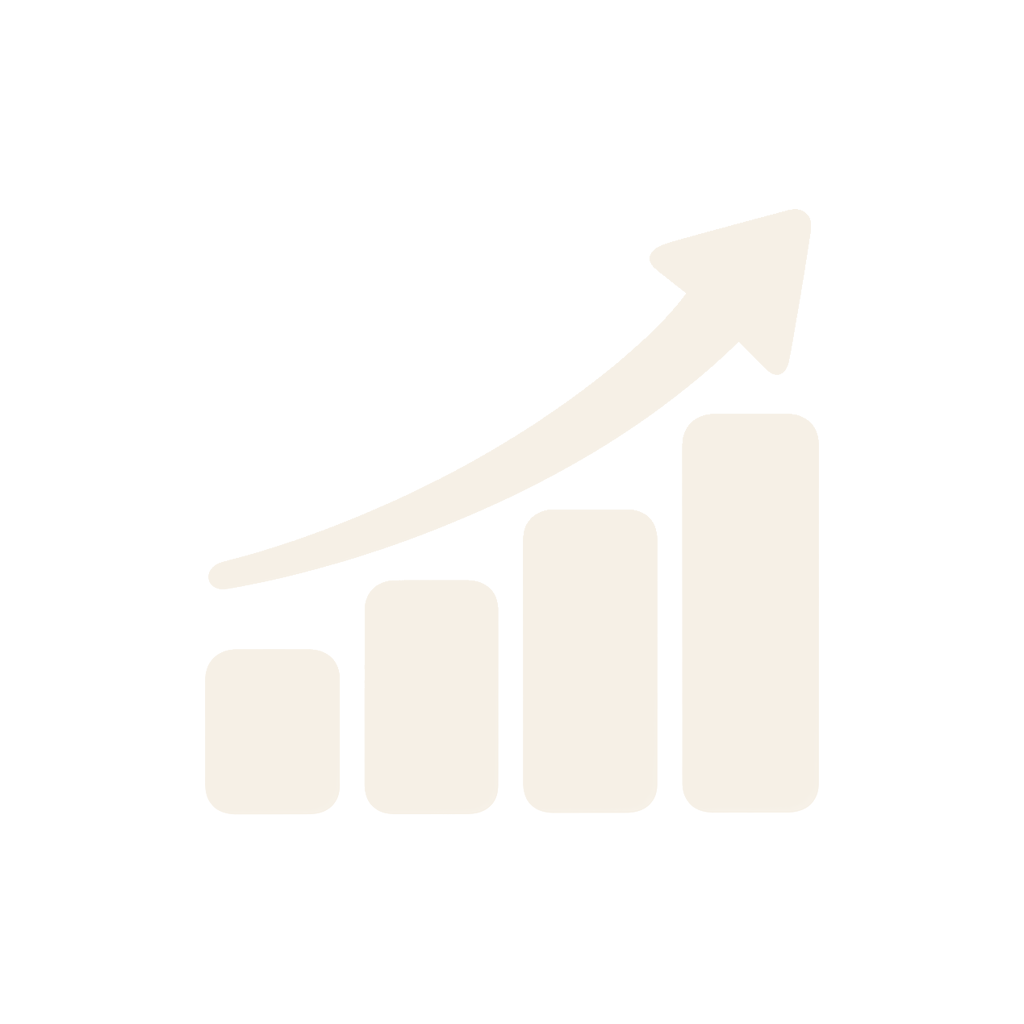
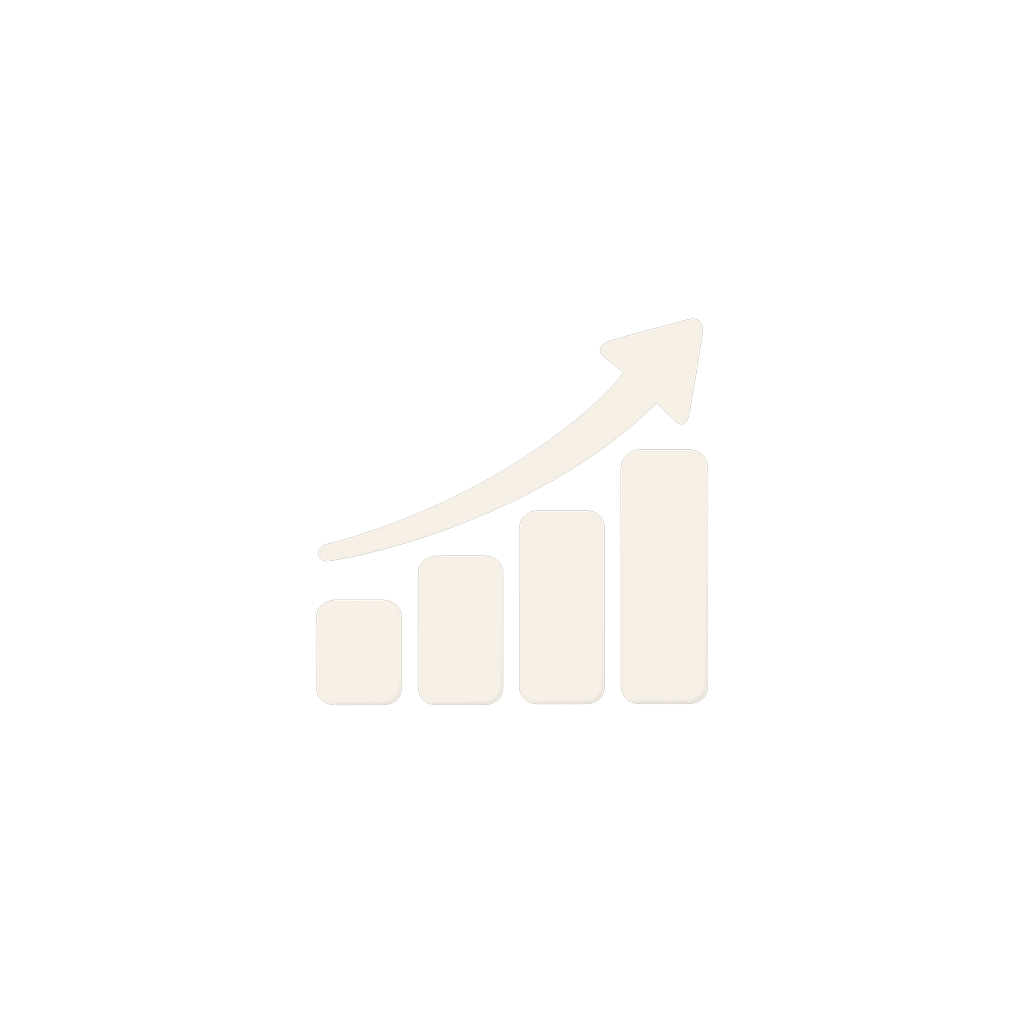
add README

Changed region(s): [[0.1875, 0.1875, 0.8125, 0.8125]]

diff --git a/README.md b/README.md
@@ -1,0 +1,123 @@
+# SelfFinance
+
+<p align="center">
+  <img src="https://img.shields.io/badge/React_Native-0.81-61DAFB?style=for-the-badge&logo=react&logoColor=black" alt="React Native" />
+  <img src="https://img.shields.io/badge/Expo-SDK_54-000000?style=for-the-badge&logo=expo&logoColor=white" alt="Expo" />
+  <img src="https://img.shields.io/badge/TypeScript-5.9-3178C6?style=for-the-badge&logo=typescript&logoColor=white" alt="TypeScript" />
+  <img src="https://img.shields.io/badge/NativeWind-4-06B6D4?style=for-the-badge&logo=tailwindcss&logoColor=white" alt="NativeWind" />
+  <img src="https://img.shields.io/badge/Zustand-5-443E38?style=for-the-badge" alt="Zustand" />
+</p>
+
+A simple React Native app for tracking personal income and expenses — entirely on-device, with no login and no backend. Add transactions, search and filter them, swipe to delete, and see where your money goes with a category breakdown chart.
+
+> [!NOTE]
+> 💸 **Project Status:** Functional and actively refined. Built as a minimal, local-first finance tracker — a transaction list, an analytics screen, and a profile screen, nothing more.
+
+---
+
+## 🛠 Tech Stack
+
+| Domain            | Technology                                                                                   |
+| :---------------- | :------------------------------------------------------------------------------------------- |
+| **Framework**     | React Native (Expo, dev-client build — not compatible with Expo Go, see below)               |
+| **Language**      | TypeScript                                                                                   |
+| **Navigation**    | React Navigation (bottom tabs + stack)                                                       |
+| **Styling**       | NativeWind (Tailwind for React Native), light/dark theme                                     |
+| **State**         | Zustand, persisted to MMKV via a custom `StateStorage` adapter                               |
+| **Forms**         | `react-hook-form` + `zod` schema validation                                                  |
+| **Lists**         | React Native `SectionList` (day-grouped, with month dividers)                                |
+| **Animations**    | `react-native-reanimated`, `react-native-gesture-handler` (swipeable rows, draggable sheet)  |
+| **Charts / Icons**| `react-native-svg` (pie chart), `smooth-icon`                                                |
+| **Haptics**       | `expo-haptics`                                                                               |
+| **Testing**       | Jest (`jest-expo`) + `@testing-library/react-native`                                         |
+
+No backend, no analytics, no third-party services — every record lives in MMKV on the device.
+
+---
+
+## 🚀 Getting Started
+
+### Prerequisites
+
+Node.js and npm, plus an Android/iOS device or emulator with a **development build** installed.
+
+> [!WARNING]
+> This project can **not** run inside the plain Expo Go app. `react-native-mmkv` is a native module that requires a custom dev client build.
+
+### Installation & Setup
+
+1. **Clone the repository and enter the project folder:**
+
+   ```bash
+   git clone https://github.com/mehmtcankilnc/SelfFinance.git
+   cd SelfFinance
+   ```
+
+2. **Install dependencies:**
+
+   ```bash
+   npm install
+   ```
+
+3. **Build and install a dev client** (only needed once, or after native deps/config change):
+
+   ```bash
+   npx expo run:android   # or: npx expo run:ios
+   ```
+
+4. **Start Metro and run the app:**
+
+   ```bash
+   npx expo start --dev-client
+   ```
+
+   Open the already-installed dev client on your device/emulator — it connects to Metro automatically.
+
+5. **Run the tests** (optional):
+
+   ```bash
+   npm test
+   ```
+
+> [!IMPORTANT]
+> No `.env` file or credentials are needed — the app has no backend to configure. Everything runs and persists locally on the device.
+
+---
+
+## 📐 Technical Architecture & Decisions
+
+### 🗂 Three screens, one flow
+
+- **Home** — a greeting header with search, type (all / income / expense), category and date (today / this week / this month) filters, and a day-grouped transaction list ("Today", "Yesterday", then full dates) with month dividers. Tap a row to edit it; swipe it to delete.
+- **Analytics** — income, expense and balance summary cards plus a category pie chart that toggles between income and expense, driven by an animated segmented control.
+- **Profile** — display name, currency, avatar and profile color, a light/dark theme toggle, and a confirmed "clear all transactions" action. Reached from the header avatar, never part of the tab bar.
+
+### ➕ Add / edit via a global bottom sheet
+
+The center `+` button in the tab bar opens a single, app-wide draggable bottom sheet (`GlobalBottomSheet`) that hosts the add-transaction form, the edit-transaction form and the profile editor. Which content is shown is a small Zustand store (`useBottomSheet`), so any screen can open it without prop drilling. Forms are built with `react-hook-form` and validated by a `zod` schema (`addTransactionSchema`); category choices come from separate income and expense category lists.
+
+### 👆 Swipeable rows
+
+`SwipeableRow` is a custom gesture-driven row built on `react-native-gesture-handler` and `react-native-reanimated` (worklets run on the UI thread). Dragging reveals a delete action; dragging past a threshold or flicking fast triggers a full-swipe delete, with spring physics and haptic feedback at the key moments.
+
+### 🔍 Search & filtering
+
+Search text is debounced (`useDebounce`, 300 ms) and combined with the type, category and date filters using AND logic. Filtering is a pure `useMemo` over the persisted transaction array, and the result is grouped by day (`groupBySection`) before being handed to `SectionList` — so the list never remounts while you type.
+
+### 🎨 Theming
+
+Colors live in a single palette (`src/theme/palette.ts`) and are exposed through a `useThemeColors` hook, so every component reads light or dark values from one place. The selected theme and the profile (name, currency, avatar, color) are persisted just like the transactions.
+
+### 💾 Local-first persistence
+
+Each Zustand store uses the `persist` middleware with a tiny adapter over `react-native-mmkv` (`src/utilities/storage.ts`). MMKV reads and writes are synchronous, so there is no loading state on startup. Running totals (income, expense, balance) are kept in the transactions store and updated on every add, edit and delete.
+
+### 🧪 Tests
+
+Unit tests cover the pure logic: `groupBySection` (Today / Yesterday / date labels and month dividers) and the `useDebounce` hook.
+
+---
+
+## 📜 License
+
+Built as a personal project for tracking day-to-day income and expenses.
